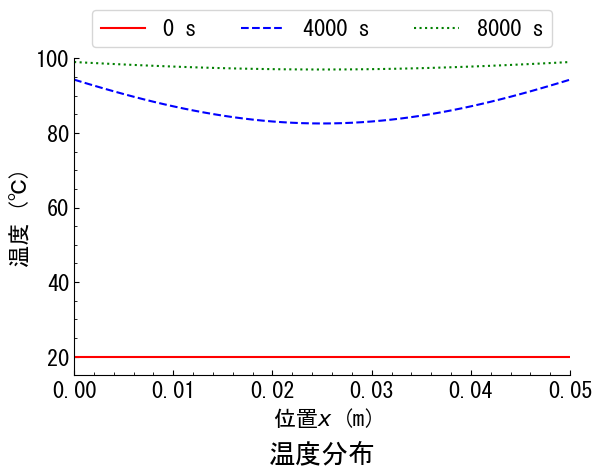
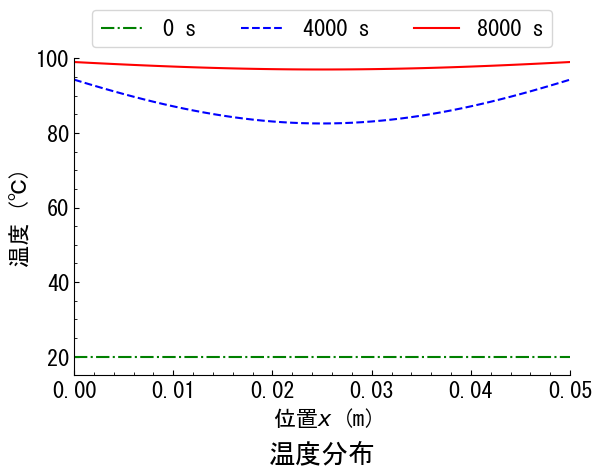
シミュレーターver.2 卒論発表

Changed region(s): [[0.1196, 0.1179, 0.9568, 0.1474], [0.1196, 0.7368, 0.9269, 0.7663]]

diff --git a/main.py b/main.py
@@ -2,23 +2,30 @@ import os
 import numpy as np
 import matplotlib.pyplot as plt
 from functions import get_T_fu, get_h_air_wd, get_lambda_wd, get_rho_c_wd, get_lambda_wd_0, get_rho_c_wd_0
-from config import N_CELL, T_0_WD, T_AIR, ALPHA_WD, D_t, D_X, q_FU, q_GEN, N_TIME, LENGTH, RHO_WD_0, TIME_END
+from config import N_CELL, T_0_WD, T_AIR_1, T_AIR_2_100, ALPHA_WD, D_t, D_X, q_FU, q_GEN, LENGTH, RHO_WD_0, TIME_END_100, TIME_END_HEAT_RESISTANCE
 
 fig_number = 6
 #フォルダ
 folder_name = '100℃一定片面'
 # folder_name = '100℃一定両面'
 # folder_name = '標準加熱曲線'
+if folder_name == '100℃一定片面':
+    TIME_END = TIME_END_100
+    T_AIR = T_AIR_1
+    T_fu = 100
 if folder_name == '100℃一定両面':
-    T_AIR = 100  #[℃]
+    TIME_END = TIME_END_100
+    T_AIR = T_AIR_2_100
+    T_fu = 100
 if folder_name == '標準加熱曲線':
-    TIME_END = 50  #[s]
-    N_TIME = int(TIME_END / D_t)  #[個]　秒の区切りの個数、0秒を入れる場合は+1する
+    TIME_END = TIME_END_HEAT_RESISTANCE
+    T_AIR = T_AIR_1
+N_TIME = int(TIME_END / D_t)  #[個]　秒の区切りの個数、0秒を入れる場合は+1する
 
 #グラフタイトル
 # fig_title = '標準加熱曲線'
-# fig_title = '温度推移'
-fig_title = '温度分布'
+fig_title = '温度推移'
+# fig_title = '温度分布'
 #比較
 # comparison = '密度'
 # fig_title = '加熱面の温度推移'
@@ -58,8 +65,6 @@ y_axis = []
 ###温度算出
 for n in range(N_TIME + 1):
     t = n * D_t  #現実の経過時間
-    if folder_name == '100℃一定片面' or folder_name == '100℃一定両面':
-        T_fu = 100
     if folder_name == '標準加熱曲線':
         T_fu = get_T_fu(t)
 
@@ -162,8 +167,8 @@ plt.subplots_adjust(bottom=0.22)  #図の位置(上下)を変更
 plt.xlabel(x_name)  #x軸ラベル
 plt.ylabel(y_name)  #y軸ラベル
 #タイトル
-plt.title('図' + str(fig_number) + '　' + fig_title, y=-0.30)
-# plt.title(fig_title, y=-0.30)  #図番号表記なし（発表スライド用）
+# plt.title('図' + str(fig_number) + '　' + fig_title, y=-0.30)
+plt.title(fig_title, y=-0.30)  #図番号表記なし（発表スライド用）
 # plt.title('図2 ' + '100℃一定, 片面加熱における' + fig_title, y=-0.30)
 
 if folder_name == '100℃一定片面' or folder_name == '100℃一定両面':
@@ -173,19 +178,23 @@ if folder_name == '100℃一定片面' or folder_name == '100℃一定両面':
         plt.ylim(20, 100)  #y軸範囲
         #プロット
         plt.plot(x_axis, y_axis_1, "-.r", label='炉内')  #(x, y, fmt), fmt = '[marker][line][color]'
-        plt.plot(x_axis, y_axis_2, "-c", label='左端')
-        plt.plot(x_axis, y_axis_3, "--g", label='中央')
-        plt.plot(x_axis, y_axis_4, ":k", label='右端')
-        plt.legend(loc='lower center', bbox_to_anchor=(0.5, 1), ncol=4)  #凡例
+        plt.plot(x_axis, y_axis_2, "-c", label='$ \mathit{x} $=0.000')
+        plt.plot(x_axis, y_axis_3, "--g", label='$ \mathit{x} $=0.025')
+        plt.plot(x_axis, y_axis_4, ":k", label='$ \mathit{x} $=0.050')
+        plt.legend(loc='lower center',
+                   bbox_to_anchor=(0.5, 1),
+                   ncol=4,
+                   columnspacing=1,
+                   handletextpad=0.32)  #凡例
 
     if fig_title == '温度分布':
         #軸範囲
         plt.xlim(0.00, LENGTH)  #x軸範囲
         plt.ylim(15, 100)  #y軸範囲
         #プロット
-        plt.plot(x_axis, y_axis_1, "-r", label='0 s')  #(x, y, fmt), fmt = '[marker][line][color]'
+        plt.plot(x_axis, y_axis_1, "-.g", label='0 s')  #(x, y, fmt), fmt = '[marker][line][color]'
         plt.plot(x_axis, y_axis_2, "--b", label=str(int(TIME_END / 2)) + ' s')
-        plt.plot(x_axis, y_axis_3, ":g", label=str(TIME_END) + ' s')
+        plt.plot(x_axis, y_axis_3, "-r", label=str(TIME_END) + ' s')
         plt.legend(loc='lower center', bbox_to_anchor=(0.5, 1), ncol=3)  #凡例
 
 if folder_name == '標準加熱曲線':
@@ -200,8 +209,8 @@ if folder_name == '標準加熱曲線':
         plt.ylim(20, 100)  #y軸範囲
         #プロット
         # plt.plot(x_axis, y_axis_1, "-r")  #(x, y, fmt), fmt = '[marker][line][color]'
-        plt.plot(x_axis, y_axis_2, "-b", label='加熱面')
-        plt.plot(x_axis, y_axis_3, "--g", label='加熱面から 5 mm')
+        plt.plot(x_axis, y_axis_2, "-b", label='$ \mathit{x} $=0.000')
+        plt.plot(x_axis, y_axis_3, "--g", label='$ \mathit{x} $=0.005')
         plt.legend(loc='lower center', bbox_to_anchor=(0.5, 1), ncol=2)  #凡例
 
     if fig_title == '温度分布':
@@ -209,9 +218,9 @@ if folder_name == '標準加熱曲線':
         plt.xlim(0.00, LENGTH)  #x軸範囲
         plt.ylim(15, 100)  #y軸範囲
         #プロット
-        plt.plot(x_axis, y_axis_1, "-r", label='0 s')  #(x, y, fmt), fmt = '[marker][line][color]'
+        plt.plot(x_axis, y_axis_1, "-.r", label='0 s')  #(x, y, fmt), fmt = '[marker][line][color]'
         plt.plot(x_axis, y_axis_2, "--b", label=str(int(TIME_END / 2)) + ' s')
-        plt.plot(x_axis, y_axis_3, ":g", label=str(TIME_END) + ' s')
+        plt.plot(x_axis, y_axis_3, "-g", label=str(TIME_END) + ' s')
         plt.legend(loc='lower center', bbox_to_anchor=(0.5, 1), ncol=3)  #凡例
 
 #タイトル
@@ -222,9 +231,9 @@ if fig_title == '温度推移(x=0)' or fig_title == '温度推移(x=0.005)' or f
 if fig_title == '温度推移(x=0)' or fig_title == '温度推移(x=0.005)' or fig_title == '温度分布(t=50)':
     plt.plot(x_axis, y_axis, '-', color="black")
 
-folder = "ver2/5_要旨/" + folder_name + "/"
-file_path = "images/" + folder + folder_name + fig_title
-# file_path = "images/" + folder + folder_name + '_' + fig_title
+folder = "ver2/4_発表本番/" + folder_name + "/"
+# file_path = "images/" + folder + folder_name + fig_title
+file_path = "images/" + folder + folder_name + '_' + fig_title
 if fig_title == '温度推移(x=0)' or fig_title == '温度推移(x=0.005)' or fig_title == '温度分布(t=50)':
     if RHO_WD_0 != 350.0:
         file_path = "images/" + folder + fig_title + '密度' + str(RHO_WD_0)

diff --git a/config.py b/config.py
@@ -1,5 +1,5 @@
-TIME_END = 8000  #[s]　加熱時間(100℃一定)
-# TIME_END = 50  #[s]　加熱時間(標準加熱曲線)
+TIME_END_100 = 8000  #[s]　加熱時間(100℃一定)
+TIME_END_HEAT_RESISTANCE = 50  #[s]　加熱時間(標準加熱曲線)
 LENGTH = 50 / 1000  #[m]　試験体厚さ
 N_CELL = 50  #[個]　セルの個数 50以上が良さげ、50→250でおしりが1℃上昇
 D_t = 0.1  #[s]　単位時間
@@ -7,10 +7,9 @@ D_t = 0.1  #[s]　単位時間
 q_FU = 0.0 * 1000  #[W/m²]　輻射 TODO:一旦輻射以外で考える。てか、表面温度を入力(既知と)して、その後ろをかんがえる。
 q_GEN = 0.0  #[W/m³]　内部発熱
 T_0_WD = 20.0  #[℃]　木材の初期温度
-T_AIR = 20  #[℃]
+T_AIR_1 = 20  #[℃]
+T_AIR_2_100 = 100  #[℃]
 RHO_WD_0 = 350.0  #[kg/m³] 全乾密度　引用:木材の物理p37
 ALPHA_WD = 0.18 / 10**6  #[m²/s] TODO:高温域まで対応してる式かどうかTODO:一定値としていいのかな？引用:木材の物理p63、先生に確認
 D_X = LENGTH / N_CELL  #[m]　セルの幅
-N_TIME = int(TIME_END / D_t)  #[個]　秒の区切りの個数、0秒を入れる場合は+1する
-
-# print(TIME_END)
+# N_TIME = int(TIME_END / D_t)  #[個]　秒の区切りの個数、0秒を入れる場合は+1する
